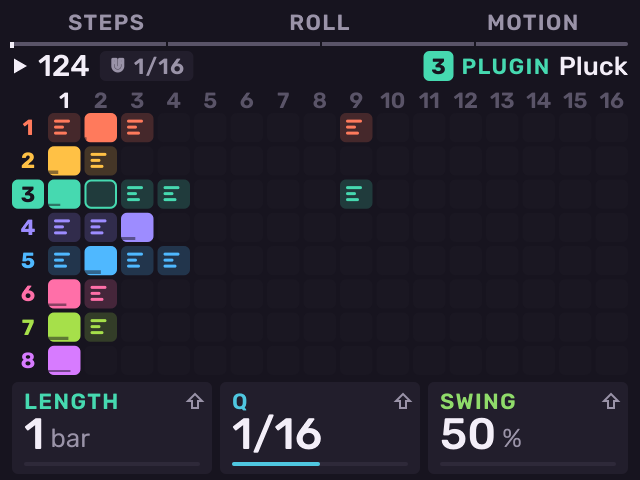
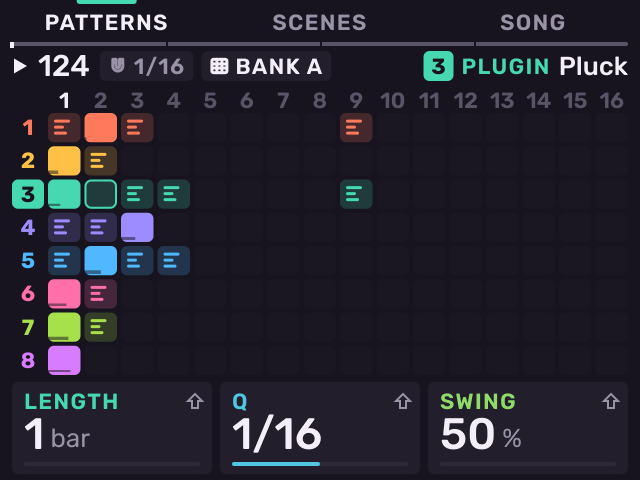
feat(melodee): SEQ opens the track's editor and goes home to Steps; Shift + Pad 12 opens Patterns, Scenes and Song, which share PATTERNS SCENES SONG

diff --git a/src/melodee/pages/patterns_page.cpp b/src/melodee/pages/patterns_page.cpp
@@ -1,14 +1,14 @@
 // SPDX-License-Identifier: AGPL-3.0-only
 // Copyright (C) 2026 Kerem Kilic (Ellic Studio)
-// PATTERNS (Seq, the MPC's Sequence mode): tracks down, the sixteen patterns
+// PATTERNS (the ARRANGE hub's B1: Shift + Pad 12, docs/HUBS_PLAN.md): tracks down, the sixteen patterns
 // of the bank in view across (A-H, Seq held + Pad Bank; the header names it),
 // eight tracks in view following the selected one. The pads play
 // the selected track, so it can be played and recorded while its patterns
 // are in view; hold Seq for the pads to launch them (shell/seq_layer.h).
 // K1 the selected pattern's length (1, 2, 4 .. 128 bars; Shift + K1 any
 // bar count), K2 its Q (Shift + K2 the project's time signature), K3 swing
-// (Shift + K3 the metronome's level). B1-B3 open Steps, Roll and Motion, as
-// on every sequence page; Seq again opens the one last used on the track.
+// (Shift + K3 the metronome's level). B1-B3 the ARRANGE hub's PATTERNS,
+// SCENES, SONG; Seq opens the track's editor (Steps, Roll or Motion).
 // The wheel moves the playhead by a beat (Shift: by Q); stopped, it sets
 // where Shift + Play carries on from (the place bar shows it). The header
 // shows Rec Quantize (Shift + Pad 10) and the track. Minus / Plus
@@ -33,7 +33,7 @@ void draw(Paint& p, const Snapshot& s) {
         h.right.push_back(pill(juce::String::fromUTF8(speed_name(s.track().speed)), colour_of(s)));
     h.left.push_back(bank_pill(s));
     h.right.push_back(tag_of(s, s.ui.track));
-    frame(p, s, {{"STEPS", "ROLL", "MOTION"}, -1, colour_of(s)}, h);
+    frame(p, s, arrange_keys(s), h);
 
     constexpr float gap = 2, label_w = 16, head_h = 9, top = zone::picture_y + 1.5f;
     constexpr float cw = (zone::width - 2 * zone::pad - label_w - 16 * gap) / 16;
@@ -109,10 +109,7 @@ void wheel(Context& c, int delta) { c.locate(delta); }
 
 void nudge(Context& c, int way) { c.select_track(unsigned(std::clamp<int>(c.ui.track + way, 0, int(track_count) - 1))); }
 
-void soft(Context& c, int key) {
-    static const PageId editors[] {PageId::Steps, PageId::Roll, PageId::Motion};
-    c.open(editors[key % 3]);
-}
+void soft(Context& c, int key) { arrange_soft(c, key); } // PATTERNS (here), SCENES, SONG
 } // namespace
 
 const PageSpec patterns_page {draw, play_pad, wheel, push, soft, nudge};

diff --git a/tests/melodee.cpp b/tests/melodee.cpp
@@ -1819,19 +1819,19 @@ void button_remap() {
     // Opening a page already on the stack goes back to it instead of growing it.
     go(PageId::Sounds); go(PageId::Patterns); go(PageId::Sounds);
     CHECK(nav.back_depth == 1 && nav.back_stack[0] == PageId::Stage);
-    // Seq's levels: a tap opens Patterns from anywhere; on Patterns the track's editor (Steps on a kit, Roll on a
-    // synth until one is opened, then that one, per track); on an editor back to Patterns; Step Edit goes up to its editor.
+    // Seq, the SEQUENCE hub (docs/HUBS_PLAN.md): a tap opens the track's editor from anywhere (Steps on a kit, Roll on
+    // a synth until one is opened, then that one, per track); on an editor home, Steps; Step Edit goes up to its editor.
     {
         UiState q; q.track = 0;
-        q.page = PageId::Stage; CHECK(seq_tap_page(q, false) == PageId::Patterns);
-        q.page = PageId::Song; CHECK(seq_tap_page(q, true) == PageId::Patterns);
+        q.page = PageId::Stage; CHECK(seq_tap_page(q, false) == PageId::Roll && seq_tap_page(q, true) == PageId::Steps);
+        q.page = PageId::Song; CHECK(seq_tap_page(q, true) == PageId::Steps);
         q.page = PageId::Patterns; CHECK(seq_tap_page(q, false) == PageId::Roll && seq_tap_page(q, true) == PageId::Steps);
         remember_editor(q, PageId::Motion);
         CHECK(seq_tap_page(q, false) == PageId::Motion && seq_tap_page(q, true) == PageId::Motion);
         q.track = 1; CHECK(seq_tap_page(q, false) == PageId::Roll); // each track its own
         q.track = 0; remember_editor(q, PageId::Stage); CHECK(seq_editor_page(q, false) == PageId::Motion); // only editors count
-        q.page = PageId::Motion; CHECK(seq_tap_page(q, false) == PageId::Patterns);
-        q.page = PageId::Steps; CHECK(seq_tap_page(q, true) == PageId::Patterns);
+        q.page = PageId::Motion; CHECK(seq_tap_page(q, false) == PageId::Steps); // home
+        q.page = PageId::Steps; CHECK(seq_tap_page(q, true) == PageId::Steps);
         q.page = PageId::StepEdit; CHECK(seq_tap_page(q, false) == PageId::Motion);
         CHECK(seq_editor(PageId::Roll) && !seq_editor(PageId::StepEdit) && !seq_editor(PageId::Patterns));
     }

diff --git a/src/melodee/pages/scenes_page.cpp b/src/melodee/pages/scenes_page.cpp
@@ -1,6 +1,6 @@
 // SPDX-License-Identifier: AGPL-3.0-only
 // Copyright (C) 2026 Kerem Kilic (Ellic Studio)
-// SCENES (roadmap P5; Push on Patterns): the bank's sixteen scenes laid out
+// SCENES (roadmap P5; the ARRANGE hub's B2, or Push on Patterns): the bank's sixteen scenes laid out
 // as the pads sit (pad 1 bottom left; Seq held + Pad Bank another bank of
 // them), each a column of patterns, pattern n of every track. A pad launches its scene: pattern n on each track holding notes
 // there (and on the selected track) at the next bar, the scene's tempo with
@@ -8,7 +8,7 @@
 // the wheel sets its tempo (below 30 BPM: none of its own). The cards are the
 // selected track's pattern's follow action (model/follow.h): K1 FOLLOW, K2
 // AFTER (bars or plays), K3 CHANCE, Shift + K1 OR (the second action, on the
-// odds the first leaves); B3 ALL puts it on every track's pattern in its
+// odds the first leaves); Shift + B3 ALL puts it on every track's pattern in its
 // column. Minus / Plus move the track. Beside the grid: the scene in hand's
 // name and tempo, the follow action in glyphs, and a dot a track (in the
 // scene, playing something else, stopped by a follow action).
@@ -51,7 +51,8 @@ void draw(Paint& p, const Snapshot& s) {
     h.left.push_back(chip("SCENES", c));
     h.left.push_back(bank_pill(s));
     h.right.push_back(tag_of(s, s.ui.track));
-    SoftKeys keys {{"", "", "ALL"}, -1, c};
+    SoftKeys keys = arrange_keys(s);
+    if (s.ui.shift) keys = SoftKeys {{"", "", "ALL"}, -1, c}; // Shift + B3: the follow onto every track's pattern
     frame(p, s, keys, h);
 
     // The scenes as the pads sit: pads 13-16 along the top, 1-4 along the bottom.
@@ -125,7 +126,8 @@ void wheel(Context& c, int delta) {
 void push(Context& c) { c.name_scene(c.ui.scene); }
 
 void soft(Context& c, int key) {
-    if (key == 2) c.follow_to_column();
+    if (c.ui.shift) { if (key == 2) { c.ui.shift_used = true; c.follow_to_column(); } return; } // ALL
+    arrange_soft(c, key); // PATTERNS, SCENES (here), SONG
 }
 
 void nudge(Context& c, int way) { c.select_track(unsigned(std::clamp<int>(c.ui.track + way, 0, int(track_count) - 1))); }

diff --git a/src/melodee/shell/button_jobs.cpp b/src/melodee/shell/button_jobs.cpp
@@ -60,7 +60,7 @@ bool button_has_shift_job(const Project& project, const UiState& ui, SurfaceButt
         if (kind == StageKind::Trim && last.used() && project.samples[last.sample % sample_slots].instrument()) return false; // ZONES (round 3)
         return kind == StageKind::Trim || kind == StageKind::Layers;
     }
-    case B::TopRight: return (ui.page == PageId::Chop && kit) || ui.page == PageId::Tracks || ui.page == PageId::Punch; // Merge; COPY on Tracks; QUANTIZE on Pad FX
+    case B::TopRight: return (ui.page == PageId::Chop && kit) || ui.page == PageId::Tracks || ui.page == PageId::Punch || ui.page == PageId::Scenes; // Merge; COPY on Tracks; QUANTIZE on Pad FX; ALL on Scenes
     case B::SampleRecord: return kit;                                            // Audio Recall
     case B::Erase: // Copy: what the page holds (shell/erase_copy.h), or off
         return ui.copying != UiState::Copying::Off || copy_here(project, ui, kit_pads, key_pads) != CopyHere::None;

diff --git a/src/melodee/shell/lights.cpp b/src/melodee/shell/lights.cpp
@@ -427,8 +427,7 @@ void Shell::lights(SurfaceLights& lights, uint32_t now) {
     }
     bool sound_hub = ui.page == PageId::Stage || is_sampler_page(ui.page) || ui.sample_held; // Sample's hub (docs/HUBS_PLAN.md)
     on(B::Sample, sound_hub || ui.page == PageId::InputConfig);
-    on(B::Seq, ui.page == PageId::Patterns || ui.page == PageId::Song || ui.page == PageId::StepEdit || ui.page == PageId::Steps
-                   || ui.page == PageId::Roll || ui.page == PageId::Motion);
+    on(B::Seq, ui.page == PageId::StepEdit || ui.page == PageId::Steps || ui.page == PageId::Roll || ui.page == PageId::Motion); // its hub
     on(B::SampleSelect, ui.page == PageId::Sounds || ui.page == PageId::Samples);
     on(B::Chop, ui.page == PageId::Chop);
     on(B::NoteRepeat, track.arp && ui.page != PageId::Song); // on Song it repeats the clip

diff --git a/src/melodee/shell/ui_state.h b/src/melodee/shell/ui_state.h
@@ -236,6 +236,7 @@ struct UiState {
     uint32_t sample_down = 0;   // ms: when Sample went down (its sheet shows sample_sheet_ms after)
     bool pad_fx_down = false, knob_fx_down = false; // Pad FX, Knob FX down (their own jobs wait for the release)
     bool fx_chord_used = false;                     // both went down together: the MIX hub, and neither's own job
+    PageId arrange_page = PageId::Song;             // the ARRANGE hub's page open last (Shift + Pad 12 opens it)
     // Seq held (shell/seq_layer.h): the Sequence layer on any page. When it went down, whether a control
     // did something meanwhile (its release then goes nowhere), and whether B1-B3 left for an editor (the
     // sheet stays away until Seq is let go). Each track's editor last open (0 none yet, then 1 + EditorKind).

diff --git a/src/melodee/shell/shift_pads.cpp b/src/melodee/shell/shift_pads.cpp
@@ -65,8 +65,9 @@ void shift_pad(Context& c, unsigned pad) {
     case 8: // Fader: what the selected track's fader follows, PIN, on / off (parity phase 8; round 2 fader C)
         c.open(PageId::FaderPage);
         return;
-    case 11: // Song
-        c.open(PageId::Song);
+    case 11: // Song: the ARRANGE hub (docs/HUBS_PLAN.md), on the page open last; inside it home, Patterns
+        if (c.ui.page == PageId::Patterns || c.ui.page == PageId::Scenes || c.ui.page == PageId::Song) c.open(PageId::Patterns);
+        else c.open(c.ui.arrange_page);
         return;
     case 15: // Project: SAVE, OPEN and NEW, the projects on the card behind OPEN
         c.ui.project_list = false; c.ui.sheet_open = false; c.ui.move_open = false; c.ui.project_pick = 0;

diff --git a/src/melodee/shell/page_stack.h b/src/melodee/shell/page_stack.h
@@ -23,8 +23,9 @@ bool seq_editor(PageId page); // Steps, Roll or Motion
 PageId seq_editor_page(const UiState& ui, bool kit);
 // An editor opened: remembered for the selected track.
 void remember_editor(UiState& ui, PageId page);
-// A tap of Seq from ui.page: Patterns from anywhere; on Patterns the track's editor; on an
-// editor back to Patterns; on Step Edit back to the editor it sits under.
+// A tap of Seq from ui.page (the SEQUENCE hub, docs/HUBS_PLAN.md): the track's editor (Steps, Roll or Motion, the
+// last open) from anywhere; on an editor home, Steps (B1's page); on Step Edit back to the editor it sits under.
+// Patterns is the ARRANGE hub's (Shift + Pad 12).
 PageId seq_tap_page(const UiState& ui, bool kit);
 
 } // namespace melodee

diff --git a/src/melodee/pages/common.cpp b/src/melodee/pages/common.cpp
@@ -739,6 +739,15 @@ void mix_soft(Context& c, int key) {
     if (next != c.ui.page) c.open(next);
 }
 
+ui::SoftKeys arrange_keys(const Snapshot& s) {
+    int here = s.ui.page == PageId::Patterns ? 0 : s.ui.page == PageId::Scenes ? 1 : s.ui.page == PageId::Song ? 2 : -1;
+    return {{"PATTERNS", "SCENES", "SONG"}, here, colour_of(s)};
+}
+void arrange_soft(Context& c, int key) {
+    static const PageId pages[] {PageId::Patterns, PageId::Scenes, PageId::Song};
+    if (pages[unsigned(key) % 3] != c.ui.page) c.open(pages[unsigned(key) % 3]);
+}
+
 void play_soft(Context& c, int key) {
     // Stage on that section: its first page, or its own kept when it was the one open (as Sample held's keys).
     const auto& t = c.track();

diff --git a/src/melodee/shell/context.cpp b/src/melodee/shell/context.cpp
@@ -218,6 +218,7 @@ void Context::open(PageId page) {
         page = PageId::Stage;
     }
     if (page != ui.page) punch_release(); // a pad held over a page change would never let go
+    if (page == PageId::Patterns || page == PageId::Scenes || page == PageId::Song) ui.arrange_page = page; // ARRANGE's last
     if (page != PageId::Stage && page != PageId::Plugins && page != PageId::Samples && page != PageId::Record)
         ui.new_for = -1; // an empty track's Stage left: no going back to where it was picked
     if (page != PageId::Samples) ui.new_kit = -1;

diff --git a/src/melodee/shell/page_stack.cpp b/src/melodee/shell/page_stack.cpp
@@ -49,8 +49,8 @@ void remember_editor(UiState& ui, PageId page) {
 }
 
 PageId seq_tap_page(const UiState& ui, bool kit) {
-    if (ui.page == PageId::Patterns || ui.page == PageId::StepEdit) return seq_editor_page(ui, kit);
-    return PageId::Patterns; // from an editor, Song or any other page
+    if (seq_editor(ui.page)) return PageId::Steps; // home (hubs plan R-a)
+    return seq_editor_page(ui, kit);               // Step Edit, Patterns, Song or any other page: the track's editor
 }
 
 } // namespace melodee

diff --git a/src/melodee/pages/common.h b/src/melodee/pages/common.h
@@ -98,5 +98,7 @@ void no_push(Context&);
 void play_soft(Context& c, int key); // B1-B3 open Stage on that section (Pads, Keys)
 ui::SoftKeys mix_keys(const Snapshot& s); // the MIX hub's row (shell/mix_hub.h): TRACKS SENDS FX, the page's lit
 void mix_soft(Context& c, int key);       // and where its keys go
+ui::SoftKeys arrange_keys(const Snapshot& s); // the ARRANGE hub's row: PATTERNS SCENES SONG, the page's lit
+void arrange_soft(Context& c, int key);       // and where its keys go
 
 } // namespace melodee
